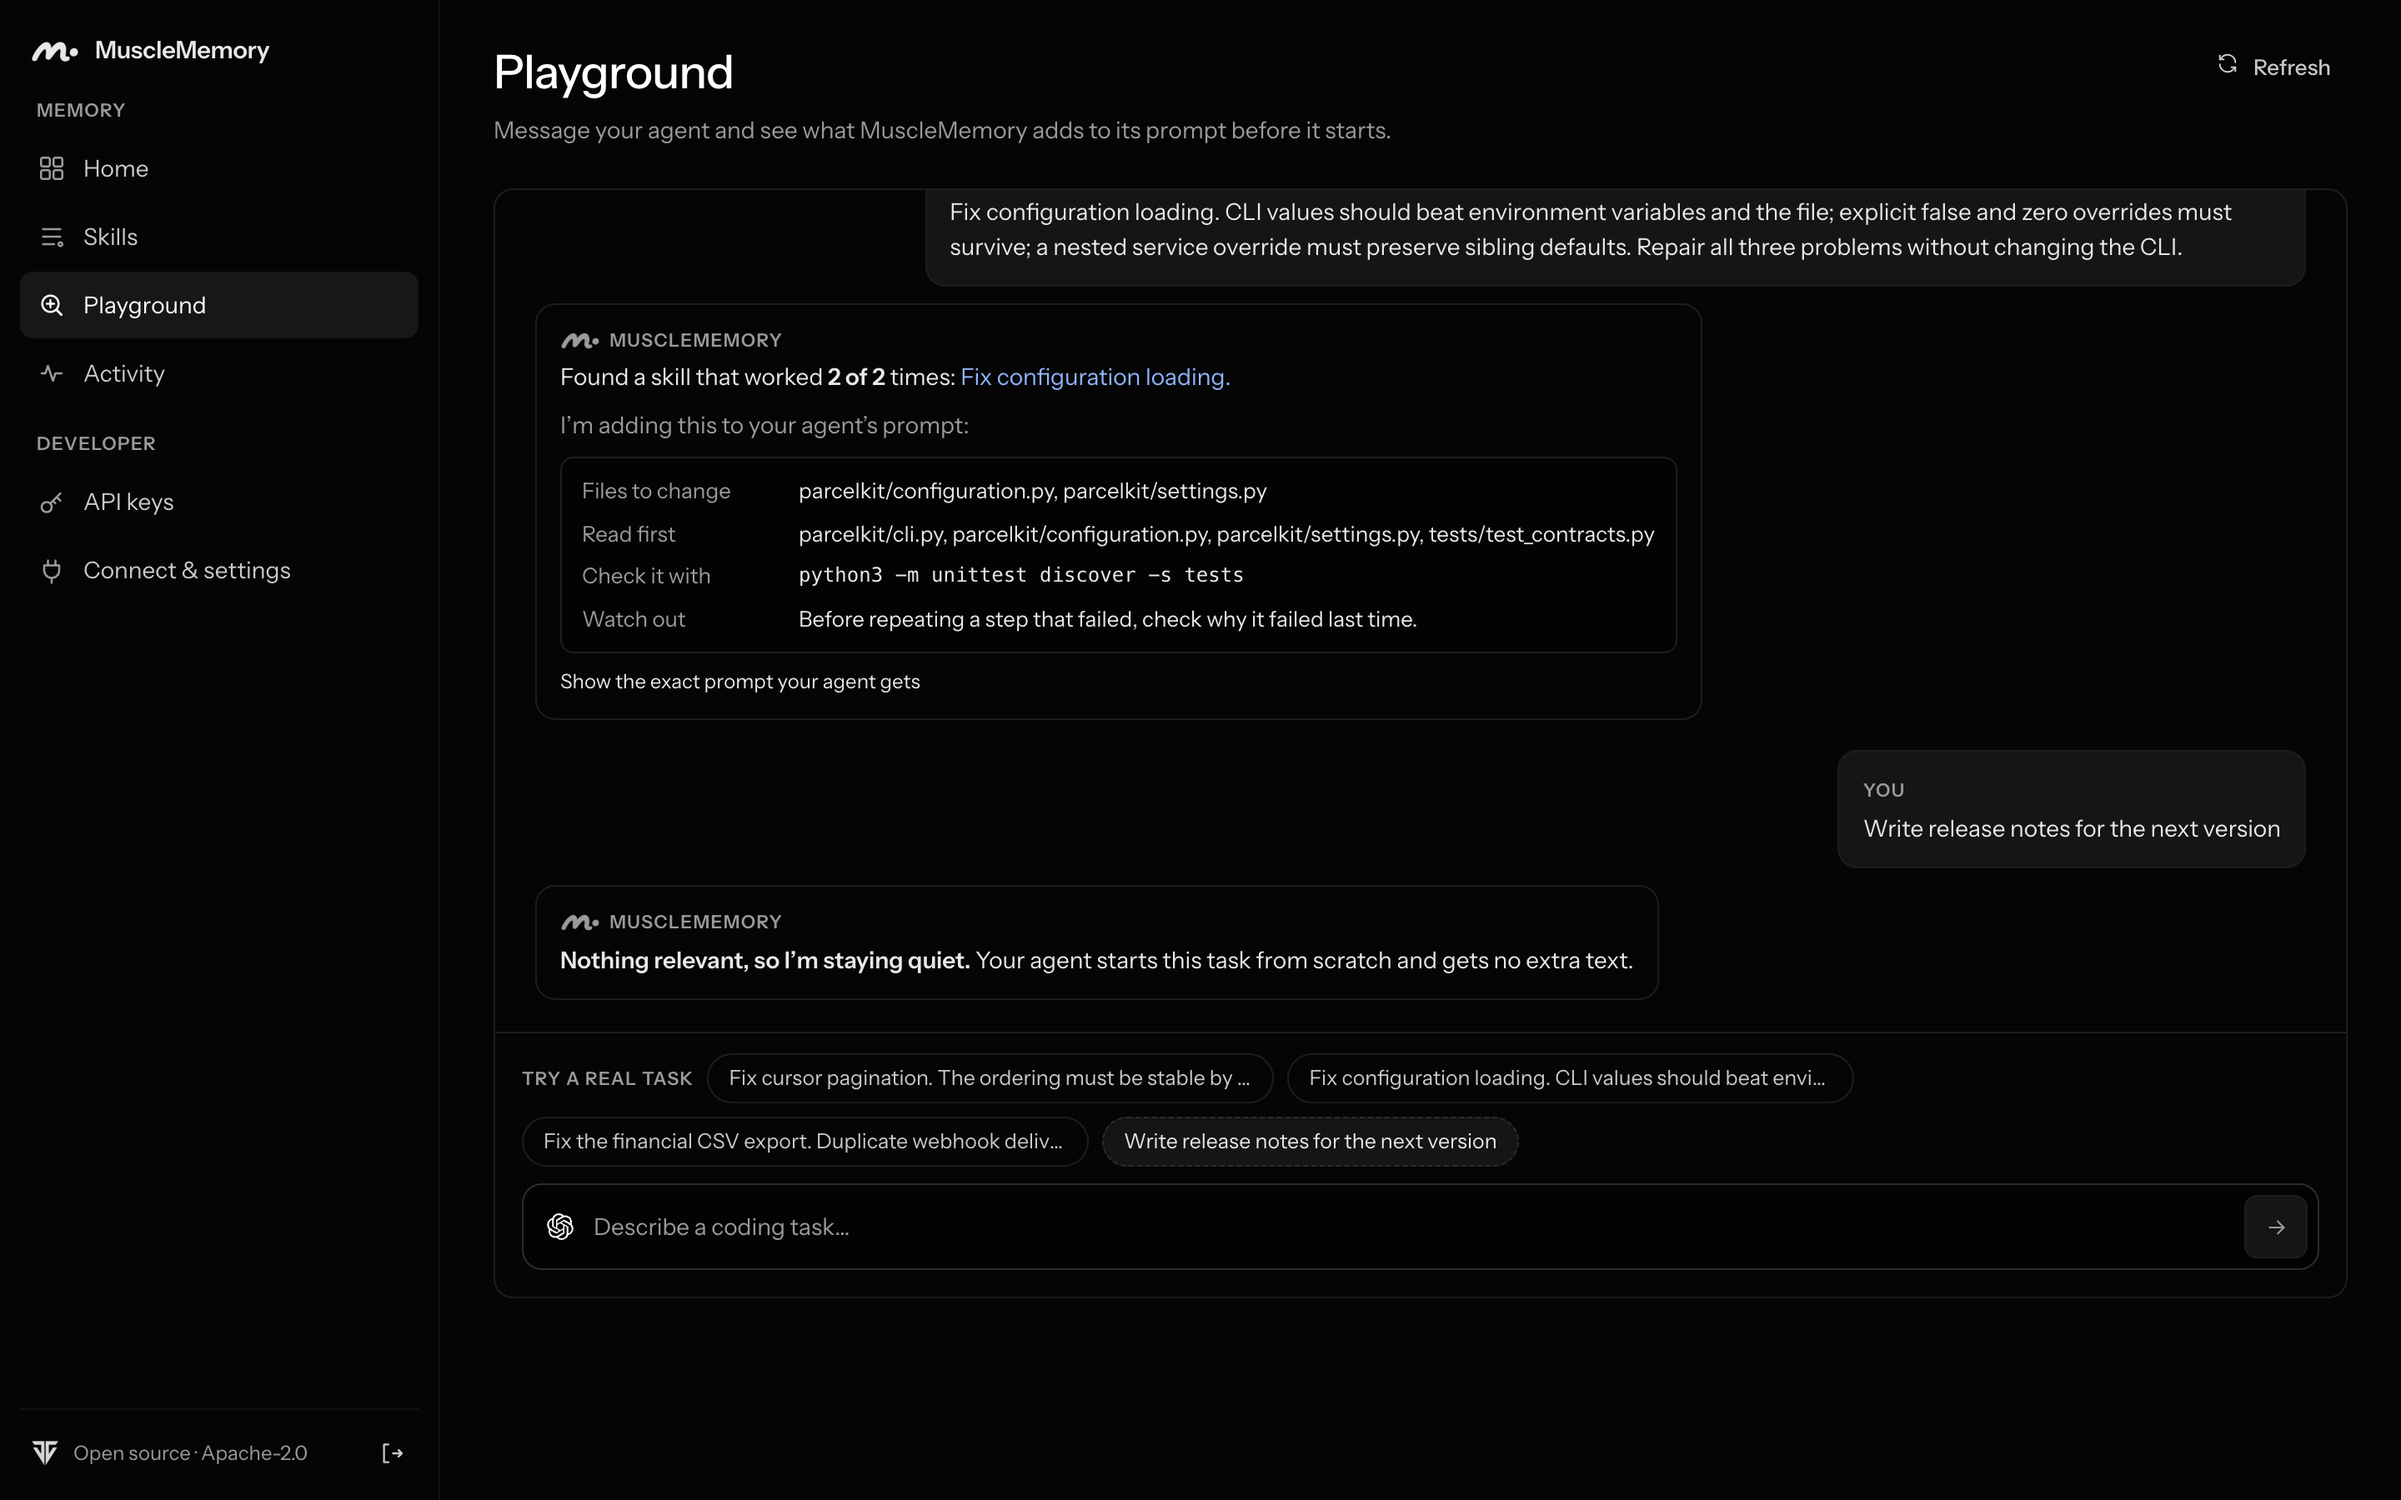
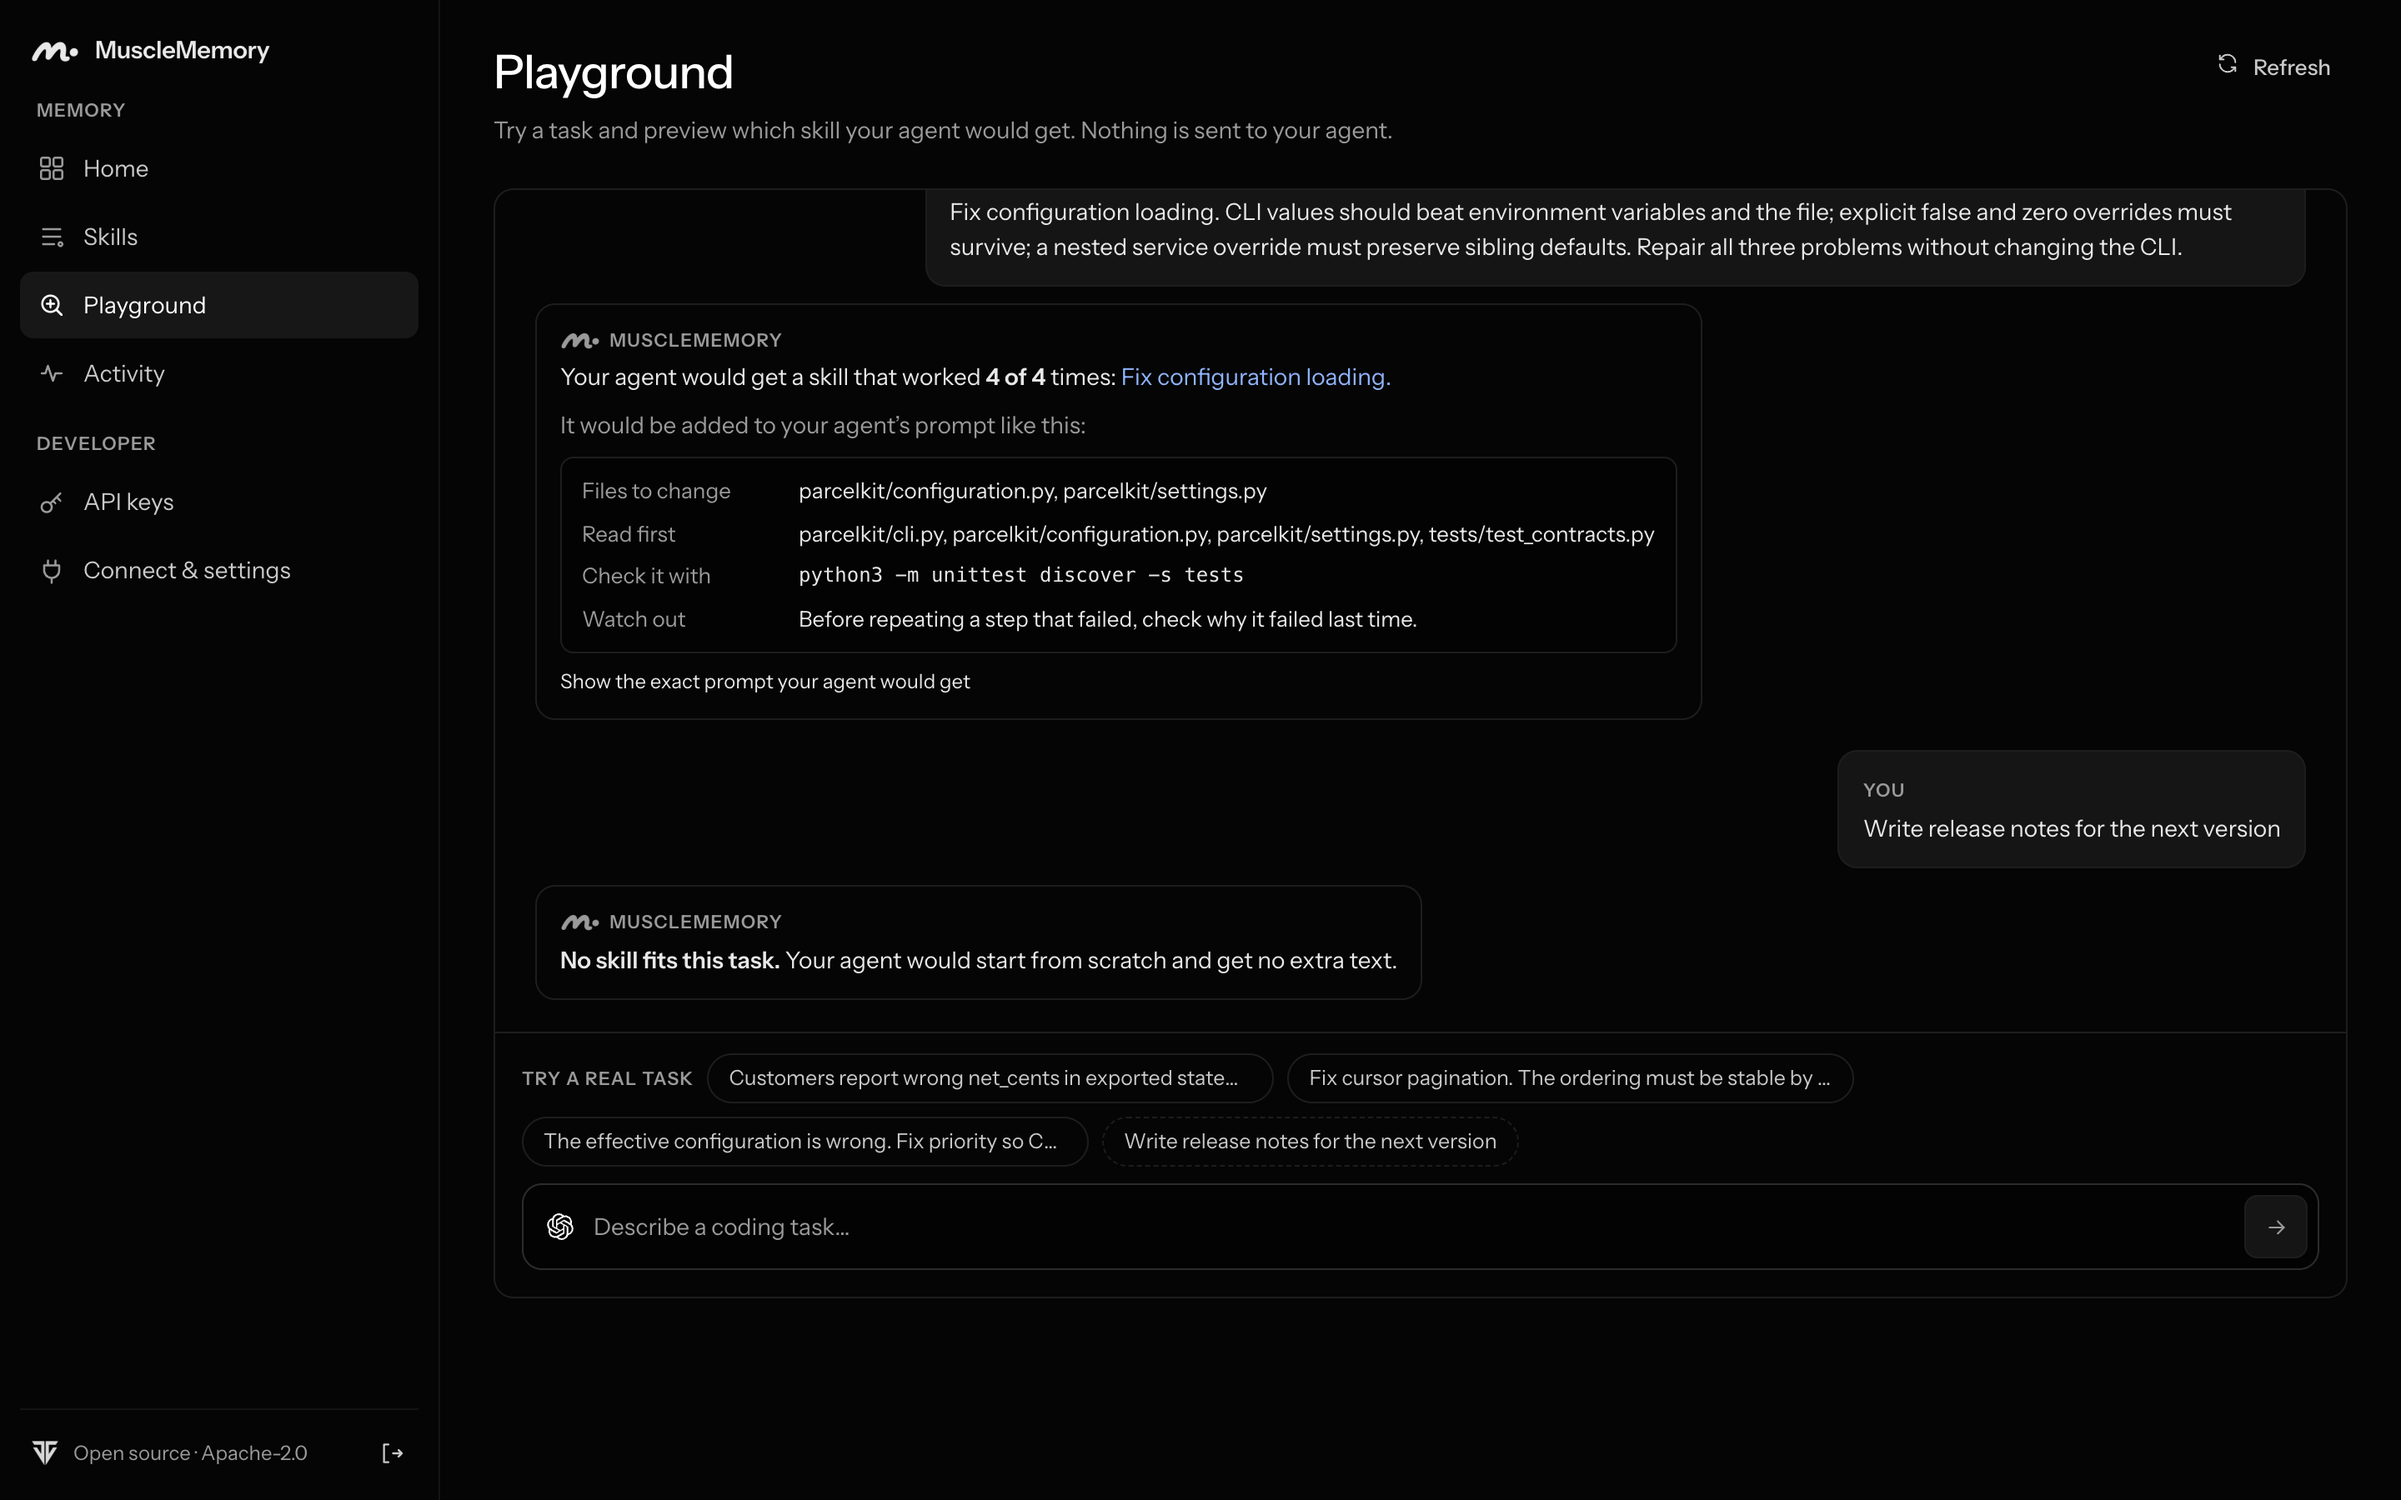
fix(dashboard): say the Playground is a preview; fix the phone layout
The Playground only previews which skill an agent would get; it never
messages the agent, so the wording now says so. A later desktop rule
kept the sidebar column on phones, squeezing every page to two thirds
of the screen; it now applies to wide screens only.

diff --git a/apps/dashboard/src/views/Playground.tsx b/apps/dashboard/src/views/Playground.tsx
@@ -58,7 +58,7 @@ export function Playground() {
     } finally {setBusy(false);}
   }
 
-  if (procedures && !ready.length) return <div className="card"><Empty icon="recall" title="Nothing to try yet" action={<button type="button" className="secondary-button" onClick={() => navigate({view: 'skills'})}>See skills</button>}>The playground needs at least one ready skill. Skills become ready after two more successful runs.</Empty></div>;
+  if (procedures && !ready.length) return <div className="card"><Empty icon="recall" title="Nothing to try yet" action={<button type="button" className="secondary-button" onClick={() => navigate({view: 'skills'})}>See skills</button>}>The playground needs at least one ready skill. A skill becomes ready after two more sessions pass their tests with it.</Empty></div>;
 
   const agent = providerOf(runs?.[0]?.agent_name);
   // Show skills by the request they were learned from, like the Skills page.
@@ -66,8 +66,8 @@ export function Playground() {
   return <section className="card chat">
     <div className="chat-log">
       {!turns.length && <div className="chat-intro">
-        <h2>Message your agent</h2>
-        <p>Send a task the way you would to your coding agent. You’ll see what MuscleMemory adds to the agent’s prompt before it starts.</p>
+        <h2>Preview what your agent gets</h2>
+        <p>Type a task the way you’d give it to your coding agent. You’ll see which of your skills it would get and the exact text MuscleMemory would add to its prompt. This is only a preview: nothing is sent to your agent.</p>
       </div>}
       {turns.map(t => <div className="turn" key={t.id}>
         <div className="bubble you"><span className="who">You</span><p>{t.task}</p></div>
@@ -99,20 +99,20 @@ export function Playground() {
 function Answer({task, result, onOpen, titles}: {task: string; result: RecallResult; onOpen: (id: string) => void; titles: Map<string, string>}) {
   const [exact, setExact] = useState(false);
   const match = result.candidates[0];
-  if (!match) return <p><strong>Nothing relevant, so I’m staying quiet.</strong> Your agent starts this task from scratch and gets no extra text.</p>;
+  if (!match) return <p><strong>No skill fits this task.</strong> Your agent would start from scratch and get no extra text.</p>;
   let pointer: Pointer = {};
   try {pointer = JSON.parse(result.guidance ?? '{}');} catch {/* show the summary only */}
   const total = match.successes + match.failures;
   return <div className="answer">
-    <p>Found a skill that worked <strong>{match.successes} of {total}</strong> times: <button type="button" className="link-button inline" onClick={() => onOpen(match.procedure_token)}>{shortTitle(titles.get(match.procedure_token) || match.definition.title)}</button></p>
-    <p className="muted">I’m adding this to your agent’s prompt:</p>
+    <p>Your agent would get a skill that worked <strong>{match.successes} of {total}</strong> times: <button type="button" className="link-button inline" onClick={() => onOpen(match.procedure_token)}>{shortTitle(titles.get(match.procedure_token) || match.definition.title)}</button></p>
+    <p className="muted">It would be added to your agent’s prompt like this:</p>
     <ul className="hand-off">
       {pointer.changed_files?.length ? <li><span>Files to change</span>{pointer.changed_files.join(', ')}</li> : null}
       {pointer.requires_files?.length ? <li><span>Read first</span>{pointer.requires_files.join(', ')}</li> : null}
       {pointer.verify?.length ? <li><span>Check it with</span><code>{pointer.verify.join(' && ')}</code></li> : null}
       {pointer.avoid?.length ? <li><span>Watch out</span>{[...new Set(pointer.avoid.map(plainNote))].join(' ')}</li> : null}
     </ul>
-    <button type="button" className="link-button" aria-expanded={exact} onClick={() => setExact(!exact)}>{exact ? 'Hide' : 'Show'} the exact prompt your agent gets</button>
+    <button type="button" className="link-button" aria-expanded={exact} onClick={() => setExact(!exact)}>{exact ? 'Hide' : 'Show'} the exact prompt your agent would get</button>
     {exact && <pre className="prompt-preview">{`${task}\n\n${result.guidance ?? ''}`}</pre>}
   </div>;
 }

diff --git a/apps/dashboard/src/workspace.tsx b/apps/dashboard/src/workspace.tsx
@@ -8,7 +8,7 @@ export type Route = {view: View; id?: string};
 export const views: Record<View, {label: string; icon: IconName; group: 'memory' | 'developer'; description: string}> = {
   home: {label: 'Home', icon: 'overview', group: 'memory', description: 'What your agents have learned, at a glance.'},
   skills: {label: 'Skills', icon: 'procedures', group: 'memory', description: 'What your agents learned from tasks that really worked.'},
-  playground: {label: 'Playground', icon: 'recall', group: 'memory', description: 'Message your agent and see what MuscleMemory adds to its prompt before it starts.'},
+  playground: {label: 'Playground', icon: 'recall', group: 'memory', description: 'Try a task and preview which skill your agent would get. Nothing is sent to your agent.'},
   activity: {label: 'Activity', icon: 'runs', group: 'memory', description: 'Agent sessions MuscleMemory recorded. Skills are learned from these.'},
   api: {label: 'API keys', icon: 'key', group: 'developer', description: 'Keys and addresses your agents and your own code use to reach MuscleMemory.'},
   settings: {label: 'Connect & settings', icon: 'connect', group: 'developer', description: 'Connect an agent and see this workspace.'},

diff --git a/apps/dashboard/src/style.css b/apps/dashboard/src/style.css
@@ -561,7 +561,7 @@ a {color: var(--link);}
 .card {background: transparent; border: 1px solid var(--line); border-radius: 12px;}
 .main-column {margin: 0; border: 0; border-radius: 0; background: var(--canvas);}
 .topbar {background: color-mix(in srgb, var(--canvas) 88%, transparent); border-radius: 0;}
-.shell {grid-template-columns: 264px minmax(0, 1fr);}
+@media (min-width: 861px) {.shell {grid-template-columns: 264px minmax(0, 1fr);}}
 .sidebar {background: var(--sidebar); border-right: 1px solid var(--line); padding: 18px 12px 12px;}
 .nav-group a {height: 40px; border-radius: 8px; font-size: 14px; font-weight: 400; color: var(--text-2);}
 .nav-group a .icon {width: 18px; height: 18px; color: var(--text-3);}
